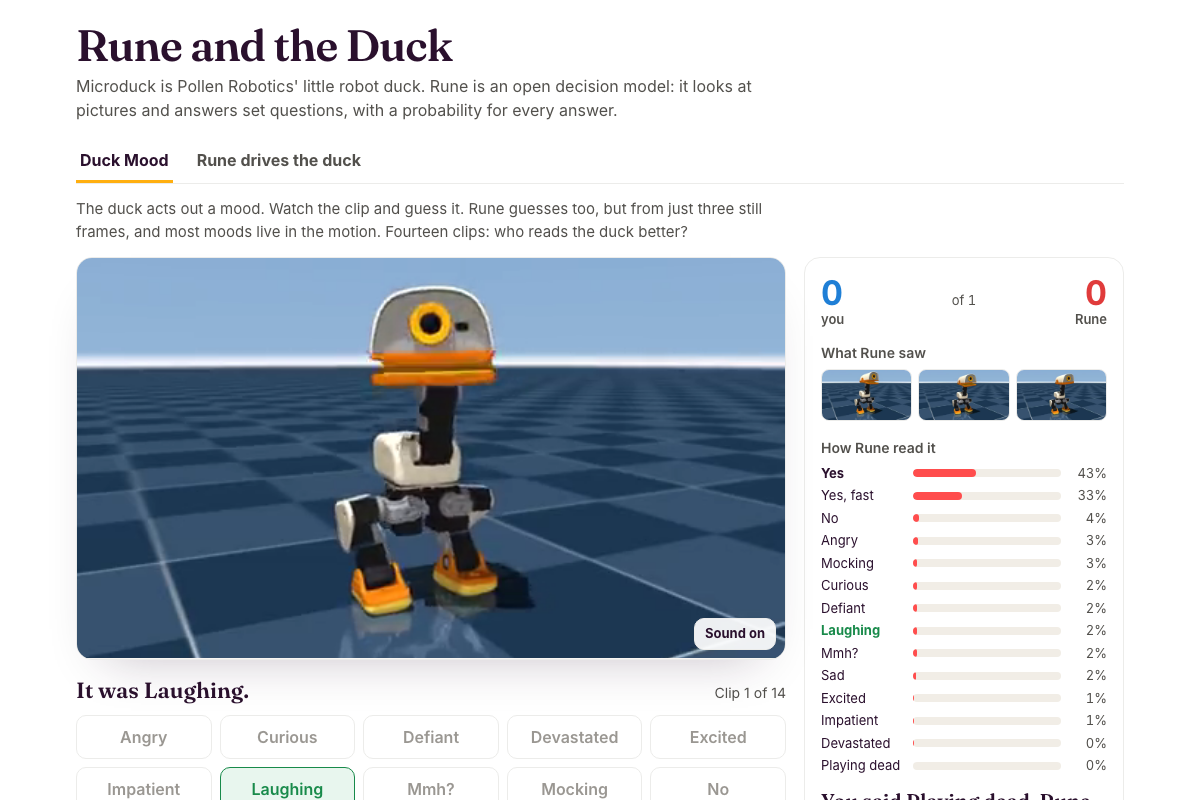
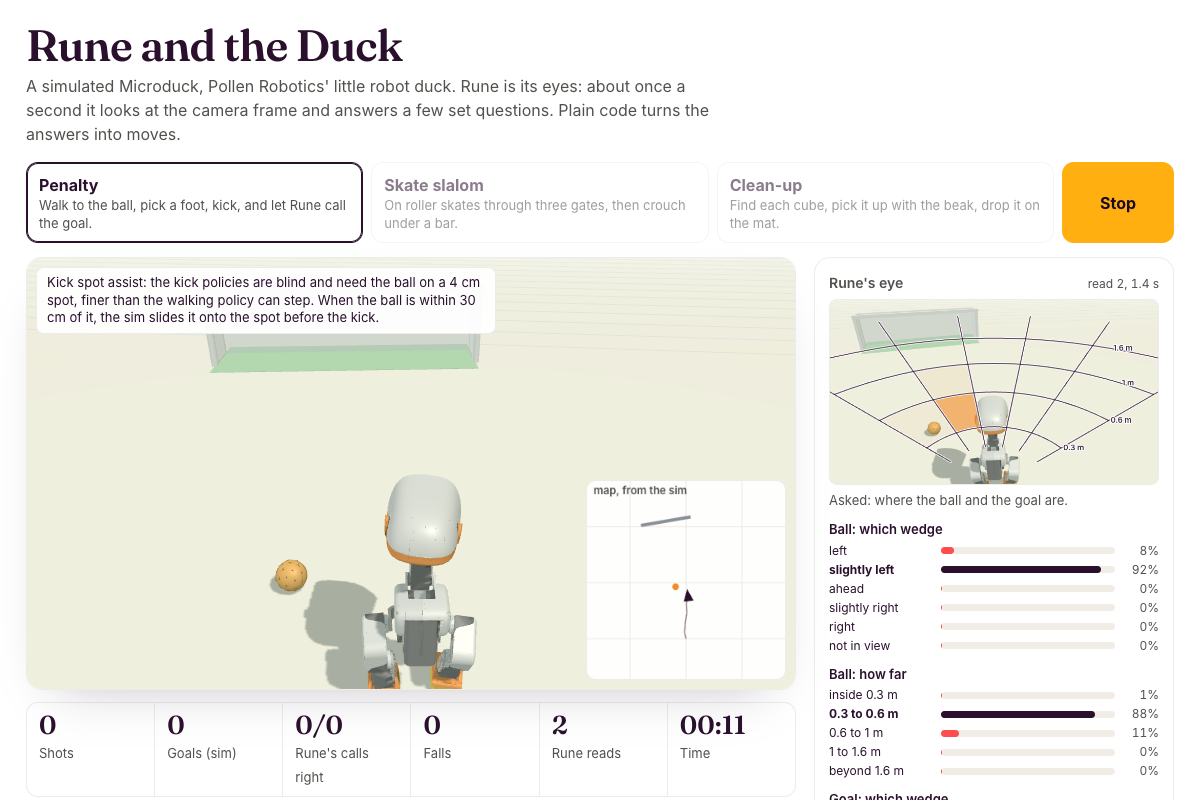
feat(labs): Rune and the Duck is now Rune piloting Microduck
The mood game is gone from the Space: Rune pilots the simulated duck
through a penalty, a skate slalom under a bar and a clean-up. New card
text and screenshot.

diff --git a/lib/labs.js b/lib/labs.js
@@ -104,8 +104,8 @@ export const RUNE_DEMOS = [
     input: 'video',
     sectors: ['robotics', 'games'],
     icon: 'Bird',
-    line: 'Microduck, the open-source duck robot everyone is building. Guess its mood from a clip, then see how Rune read it. Or let Rune drive the simulated duck: it looks at the frame, says where the ball is and how close, and code walks the duck over and kicks.',
-    proves: 'Rune as the eyes of a walking robot, on an open robot and its open policies.',
+    line: 'Rune pilots Microduck, the open-source robot duck, in a physics simulation. It reads the camera frame about once a second and code turns its answers into moves: score a penalty, skate a slalom and crouch under a bar, pick up cubes and drop them on a mat.',
+    proves: 'Rune as the eyes of a robot that walks, kicks, skates and picks things up, on an open robot and its open policies.',
   }),
   demo({
     slug: 'ask-your-camera',
